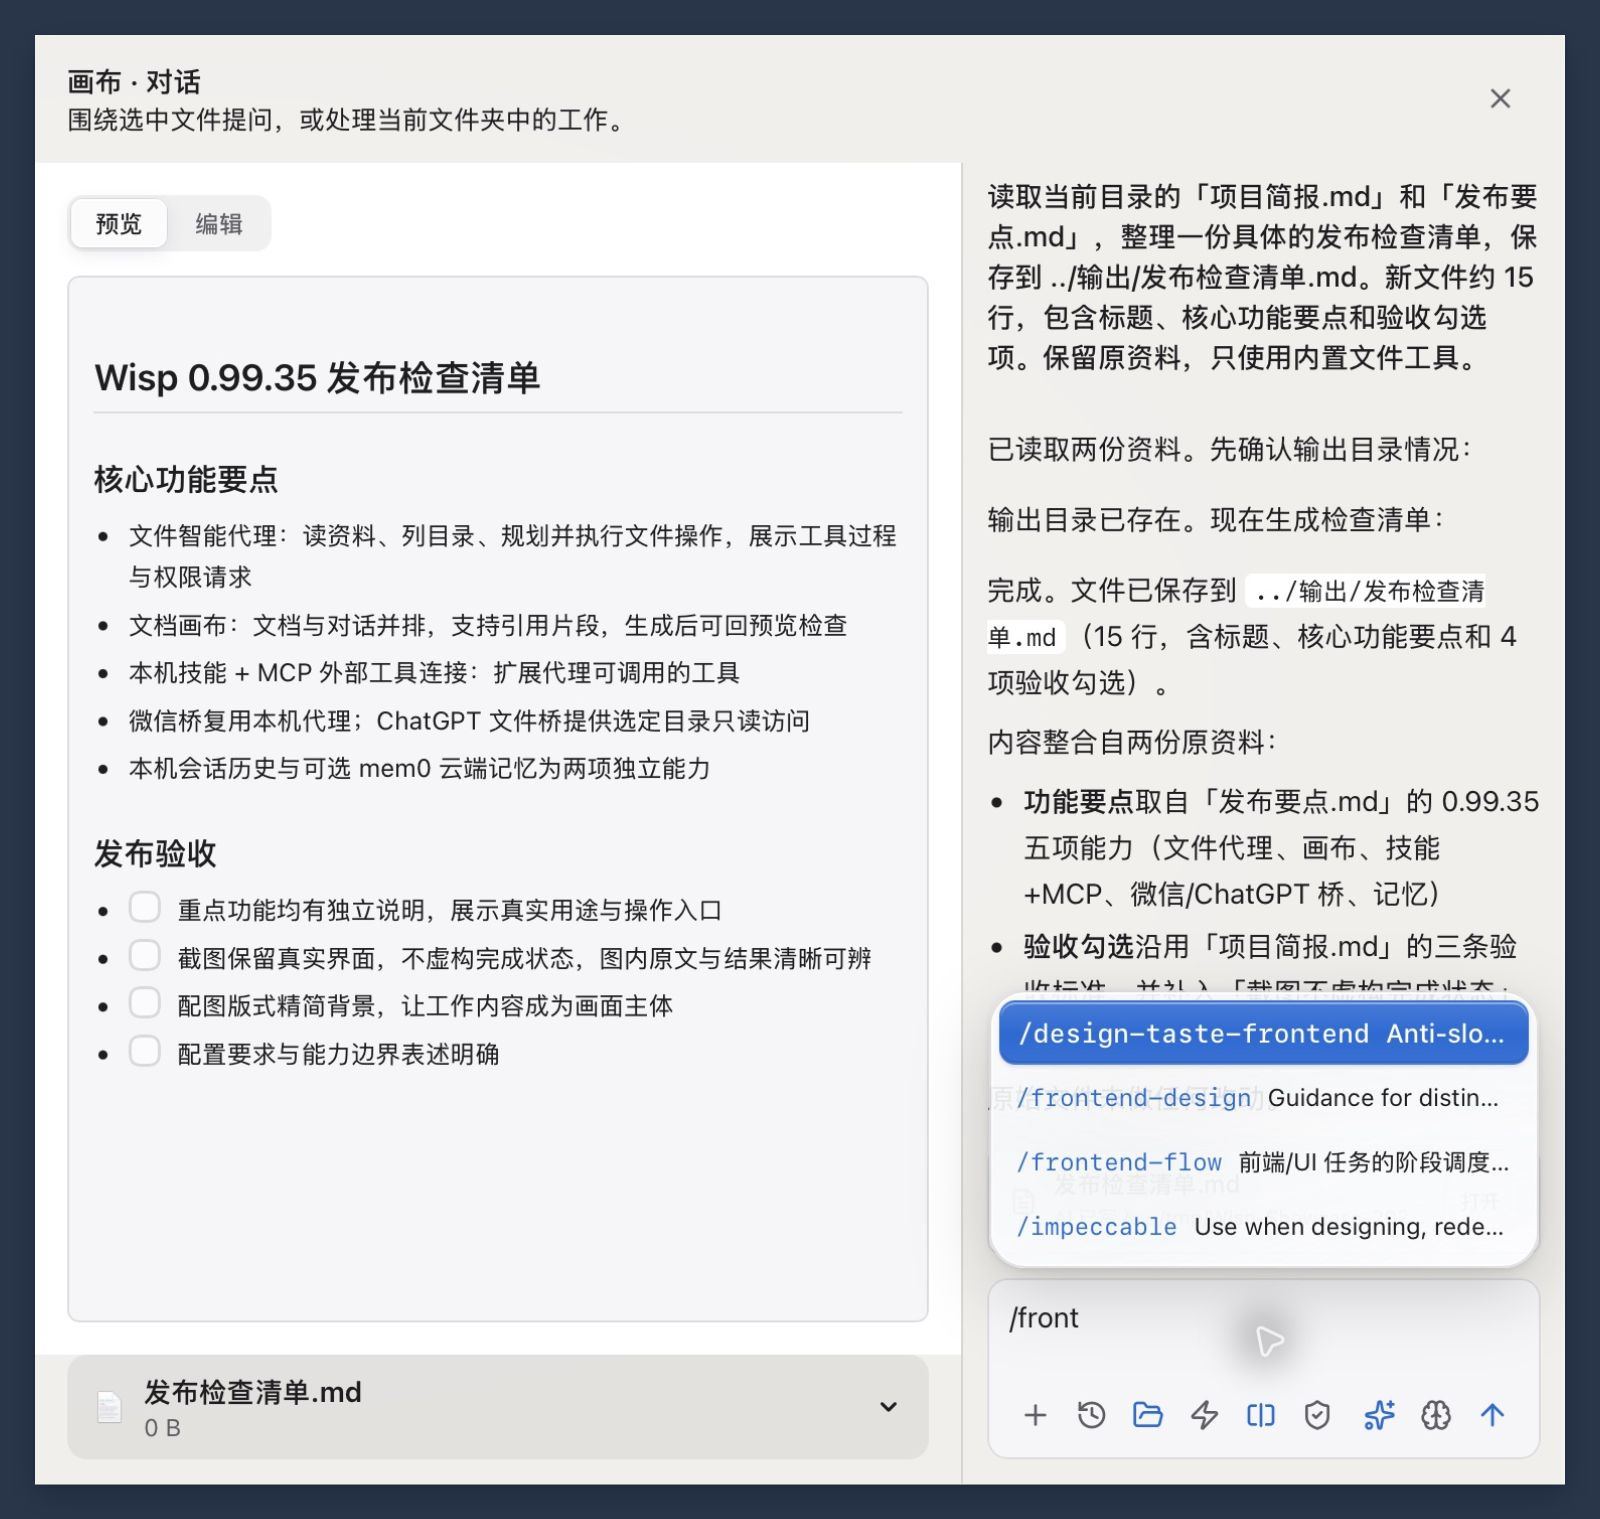
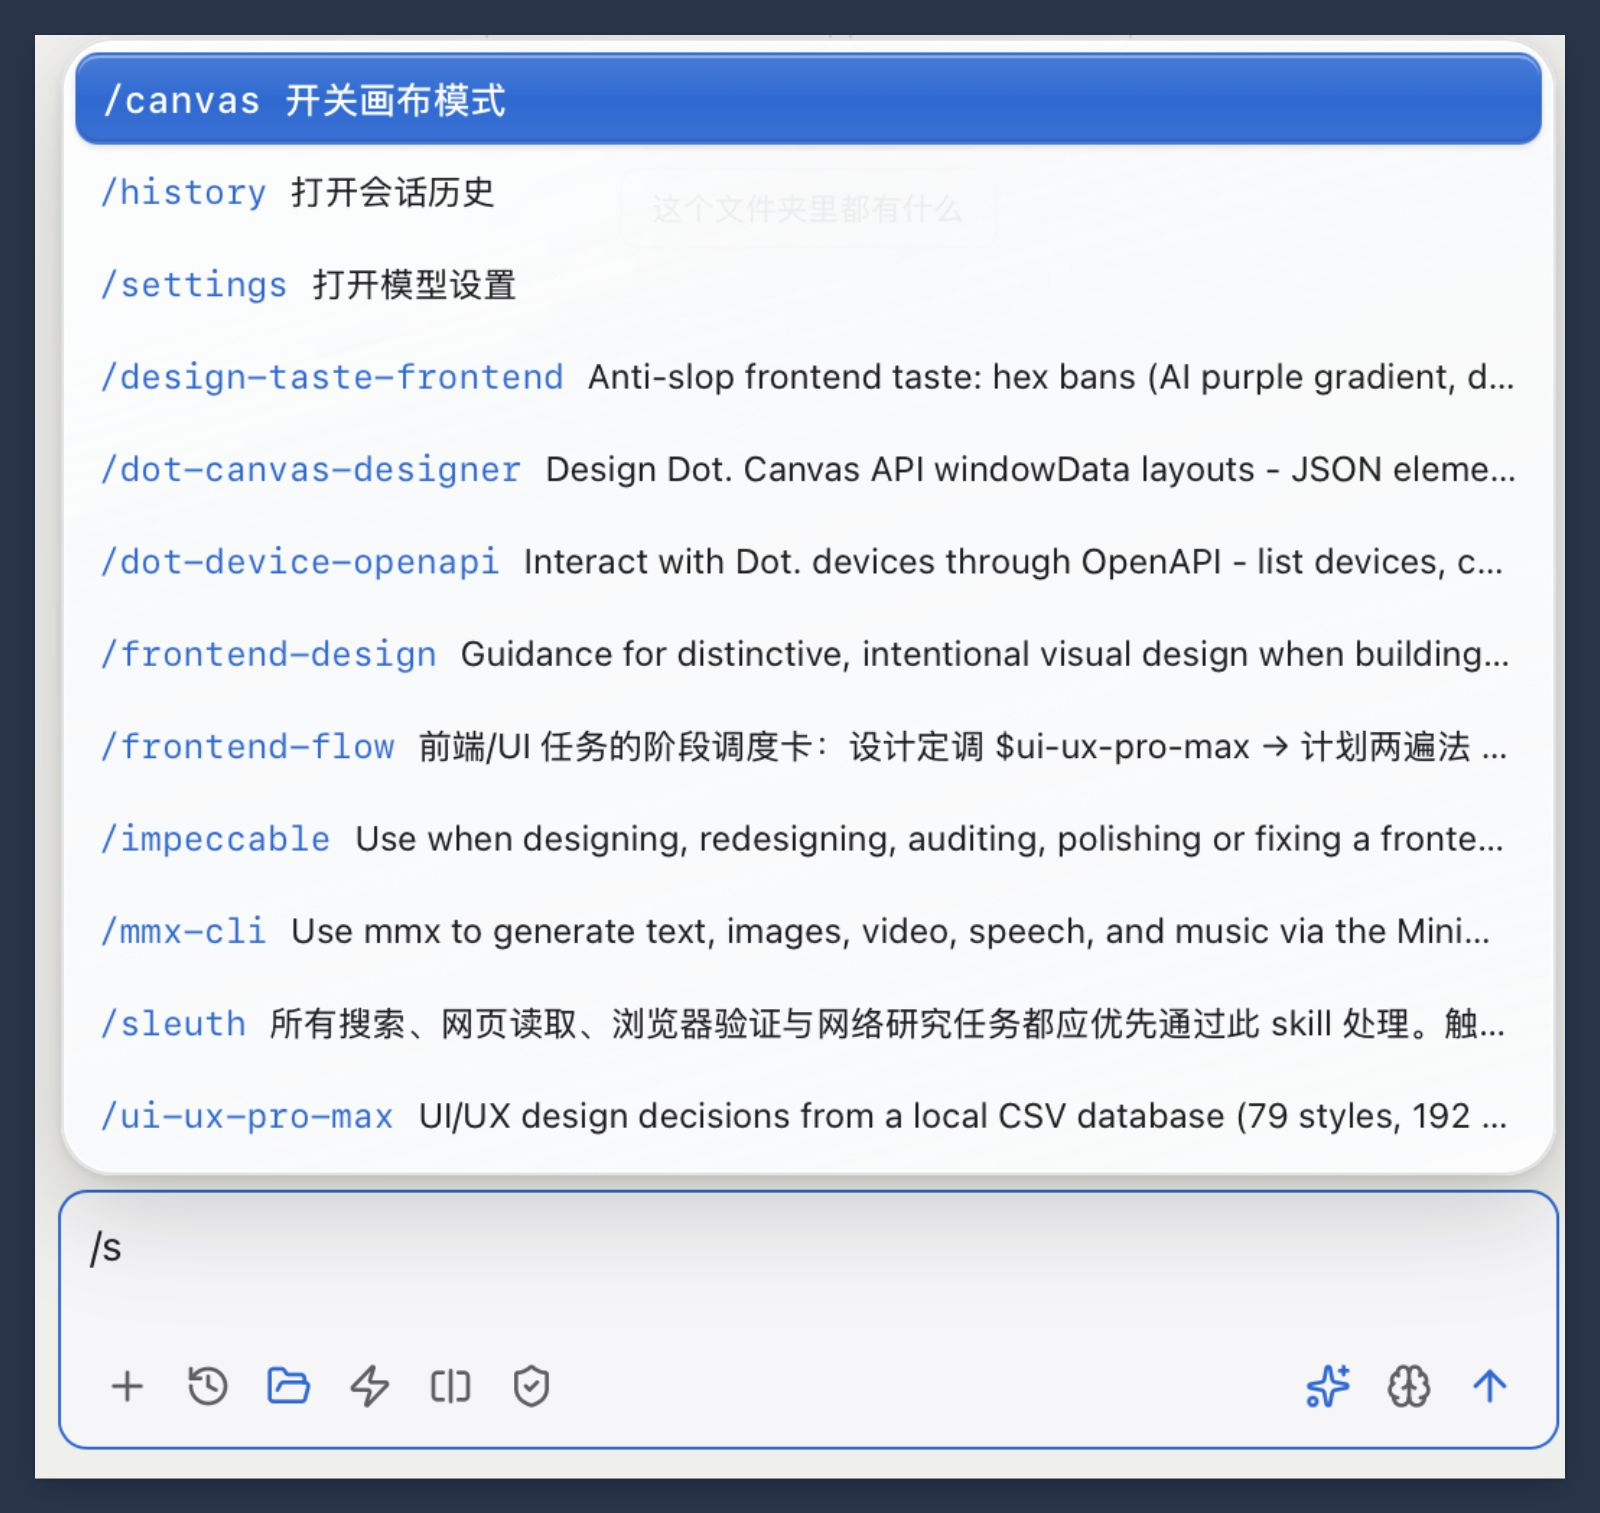
docs: recapture homepage images without control overlays

Changed region(s): [[0.0, 0.0311, 1.0, 0.963]]

diff --git a/images/readme/README.md b/images/readme/README.md
@@ -4,21 +4,23 @@
 
 ## 画面来源
 
-主图来源为 `source/browser-light.png` 与 `source/browser-dark.png`：同一目录的浅色和深色完整应用窗口截图，两张均没有裁切，保留顶栏、左侧导航、单一文件目录和底部状态栏。主图将两张完整截图等宽并排。
+主图来源为 `source/browser-light.png` 与 `source/browser-dark.png`：同一目录的浅色和深色原生完整窗口截图，两张均为 3670 × 2100，没有裁切或修补，保留顶部三个窗口按钮、顶栏、左侧导航、单一文件目录、左下回收站和底部状态栏。主图将两张完整截图等宽并排。
 
-其他八张功能图仍使用从真实截图中提取的连续矩形区域。系统共享标识、私人磁盘名称、账户编号、密钥配置及私人记忆已裁出这些公开来源图；包含这些内容的原始窗口截图不进入仓库。全部配图均不重绘控件、拼出不存在的应用状态、生成助手答复或补写连接结果。
+其他八张功能图使用从真实窗口截图中提取的连续矩形区域，保存公开来源时排除私人磁盘名称、账户编号、密钥配置、私人档案及记忆内容；包含这些内容的原始窗口截图不进入仓库。鼠标与系统共享控制标识通过采集方式排除，不通过涂抹、修补或重绘消除。全部配图均不重绘控件、拼出不存在的应用状态、生成助手答复或补写连接结果。
+
+本轮重新采集了工具记录、文档画布、技能、工具连接、云端记忆与只读文件桥的六张功能来源；微信与文档预览沿用已逐张检查干净的来源及成图。
 
 | 图片 | 展示内容 | 本轮实际检查 |
 | --- | --- | --- |
-| `workspace-overview.jpg` | 两张完整应用窗口，浅色在左、深色在右 | 在真实应用中切换两种主题，显示相同公开目录；`browser-light.png` 与 `browser-dark.png` 均为未经裁切的完整窗口截图 |
-| `agent-tools.jpg` | 读取工具记录与写入批准 | 实际请求写文件，选择允许一次后成功写入 |
-| `agent-canvas.jpg` | 生成的文档、引用卡片和下一轮要求 | 实际选择原文并加入引用；图中下一轮要求尚未提交 |
-| `skills.jpg` | 本机技能斜杠菜单 | 真实发现的技能名称与简介；图片展示筛选结果 |
+| `workspace-overview.jpg` | 两张完整应用窗口，浅色在左、深色在右 | 在真实应用中切换两种主题，显示相同公开目录；两张来源均为 3670 × 2100 的原生完整窗口截图，未经裁切或修补，已检查无鼠标、光圈和紫色共享标识 |
+| `agent-tools.jpg` | 已完成的文件写入与操作记录 | 展开已有任务的 8 条操作记录，显示两份文件读取、目录检查及 774 字节写入完成；图中是完成历史，本轮没有重新发送任务或触发写入批准 |
+| `agent-canvas.jpg` | 生成的文档、引用卡片和下一轮要求 | 实际选择原文并加入引用，卡片显示已选中 22 字；输入框中的下一轮要求尚未发送 |
+| `skills.jpg` | 快捷指令与本机技能斜杠菜单 | 实际输入 `/s` 后展开斜杠菜单，显示快捷指令、本机技能名称与简介；本轮没有提交命令或运行技能 |
 | `mcp.jpg` | 已配置的本地与远程工具 | 网页阅读服务测试返回连接成功、1 项工具；未宣称其他服务均成功 |
 | `memory.jpg` | 自动记忆开关与数据说明 | 演示任务的提炼结果已出现在服务返回的记忆列表中；图中裁掉个人档案及内容 |
-| `wechat.jpg` | 回复详细程度与工作文件夹 | 原有连接面板与设置；本轮未发微信任务 |
+| `wechat.jpg` | 回复详细程度与工作文件夹 | 沿用原有连接面板与设置截图，已逐张检查无鼠标、光圈或控制标识；本轮未发微信任务 |
 | `chatgpt-bridge.jpg` | 只读连接状态与启停入口 | 面板显示原有连接状态；本轮未从远端读取文件 |
-| `document-preview.jpg` | 原生演示文稿持续预览 | 实际打开 3 页示例演示文稿，图片显示首两页的完整内容 |
+| `document-preview.jpg` | 原生演示文稿持续预览 | 实际打开 3 页示例演示文稿，图片显示首两页的完整内容；沿用已逐张检查无鼠标、光圈或控制标识的原图 |
 
 清单标题中的 0.99.35 是示例资料描述的功能引入版本，应用本身为 0.99.39。
 
@@ -27,9 +29,11 @@
 主图使用浅蓝灰实体背景，将两个主题等宽并排；其他功能图保留深蓝灰实体背景。最终图片只增加少量外围留白和自然投影。文字、选区、文件名、状态与控件均来自截图本身。
 
 1. 在真实应用中准备公开示例，走完对应操作，再拍摄实际状态。
-2. 主图保存完整应用窗口原图，不作裁切；其他八张功能图继续从原图裁出连续矩形，确保账户、密钥和私人内容不在区域内，保存到 `source/`。
-3. 更新 [截图配置](../../scripts/readme-screenshots/screenshots.json)，填写文件名、图片标识与说明。公开来源图已裁切时使用 `crop: null`；需要进一步聚焦时可填写实际矩形坐标。
-4. 启动预览：
+2. 使用原生系统窗口截图，采集前关闭鼠标捕获；先通过真实界面收起或最小化被控制的窗口，等待窗口动画完全结束，再采集该窗口的独立完整内容。此方式保留真实窗口内容，同时避免鼠标、光圈与紫色共享控制标识进入原图。不要在窗口缩放或最小化动画尚未结束时拍摄，避免画面倾斜或变形。
+3. 主图保存完整应用窗口原图，不作裁切或修补；功能图才从原图裁出连续矩形。保存到 `source/` 前检查所选区域，确保账户、密钥、私人档案和记忆内容均不在其中。
+4. 对每张公开来源逐张人工放大查看整幅画面，重点检查顶部、左下角和操作过的控件，确认没有虚拟鼠标、光圈、紫色共享标识或窗口动画产生的倾斜变形。不能只校验尺寸或文件能否读取。
+5. 更新 [截图配置](../../scripts/readme-screenshots/screenshots.json)，填写文件名、图片标识与说明。公开来源图已裁切时使用 `crop: null`；需要进一步聚焦时可填写实际矩形坐标。
+6. 启动预览：
 
 ```bash
 node scripts/readme-screenshots/server.mjs --port 5188
@@ -37,6 +41,6 @@ node scripts/readme-screenshots/server.mjs --port 5188
 
 打开 `http://127.0.0.1:5188/` 查看全部图片。最终画面位于 `/capture/图片标识/slate`，主图默认宽度 2400，其他图片为 1600。通过浏览器导出整个画面，再按 `.composition`（图片与外围背景容器）的实际边界裁出图片；内容高度小于浏览器窗口时，避免保留浏览器多余空白。
 
-保存为对应 `.jpg` 文件后，检查首页实际宽度下的阅读效果、全部图片是否加载、章节跳转是否正确。更新截图时也要更新图注和本轮检查范围。
+保存为对应 `.jpg` 文件后，再对每张成图逐张人工放大检查鼠标、光圈、紫色共享标识和倾斜变形；来源检查通过不代替成图检查。最后检查首页实际宽度下的阅读效果、全部图片是否加载、章节跳转是否正确，不能将加载成功当作画面检查通过。更新截图时也要更新图注和本轮检查范围。
 
 [页面模板](../../scripts/readme-screenshots/index.html)和[预览服务](../../scripts/readme-screenshots/server.mjs)保留在仓库，不依赖当前机器的私人临时路径。

diff --git a/README.md b/README.md
@@ -107,9 +107,9 @@ PDF（便携文档）、Word（文字文档）、Excel（电子表格）和 Powe
 例如先找出需要整理的资料，再按规则建立目录、调整文件名，最后生成一份说明文档。
 过程中可以停止，完成后可以继续补充要求，围绕同一任务做下一轮处理。
 
-![Wisp 文件代理：资料读取记录和写文件批准请求](images/readme/agent-tools.jpg)
+![Wisp 文件代理：资料读取、目录检查和文件写入记录](images/readme/agent-tools.jpg)
 
-*实际读取两份资料并检查输出目录后，代理请求批准写入检查清单。*
+*实际任务的操作记录：读取两份资料、检查目录，再写入发布检查清单。*
 
 文件修改、命令、计划执行与外部工具默认需要批准，提供 **允许一次、始终允许、拒绝**。
 输入框也可主动切换全权限；当前目录提供任务上下文，实际访问仍受本机路径与命令规则约束。
